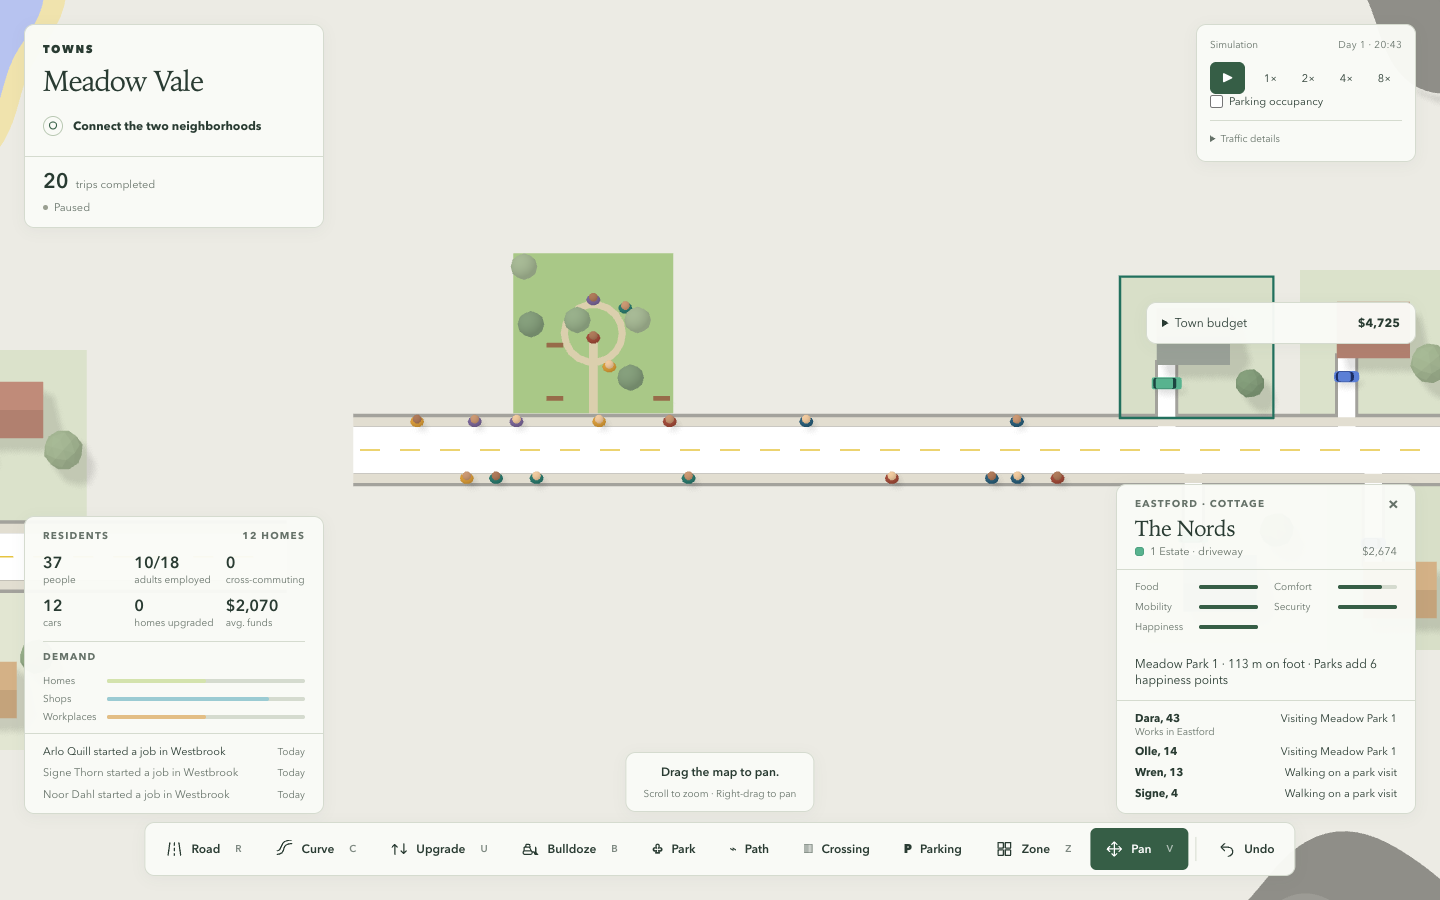
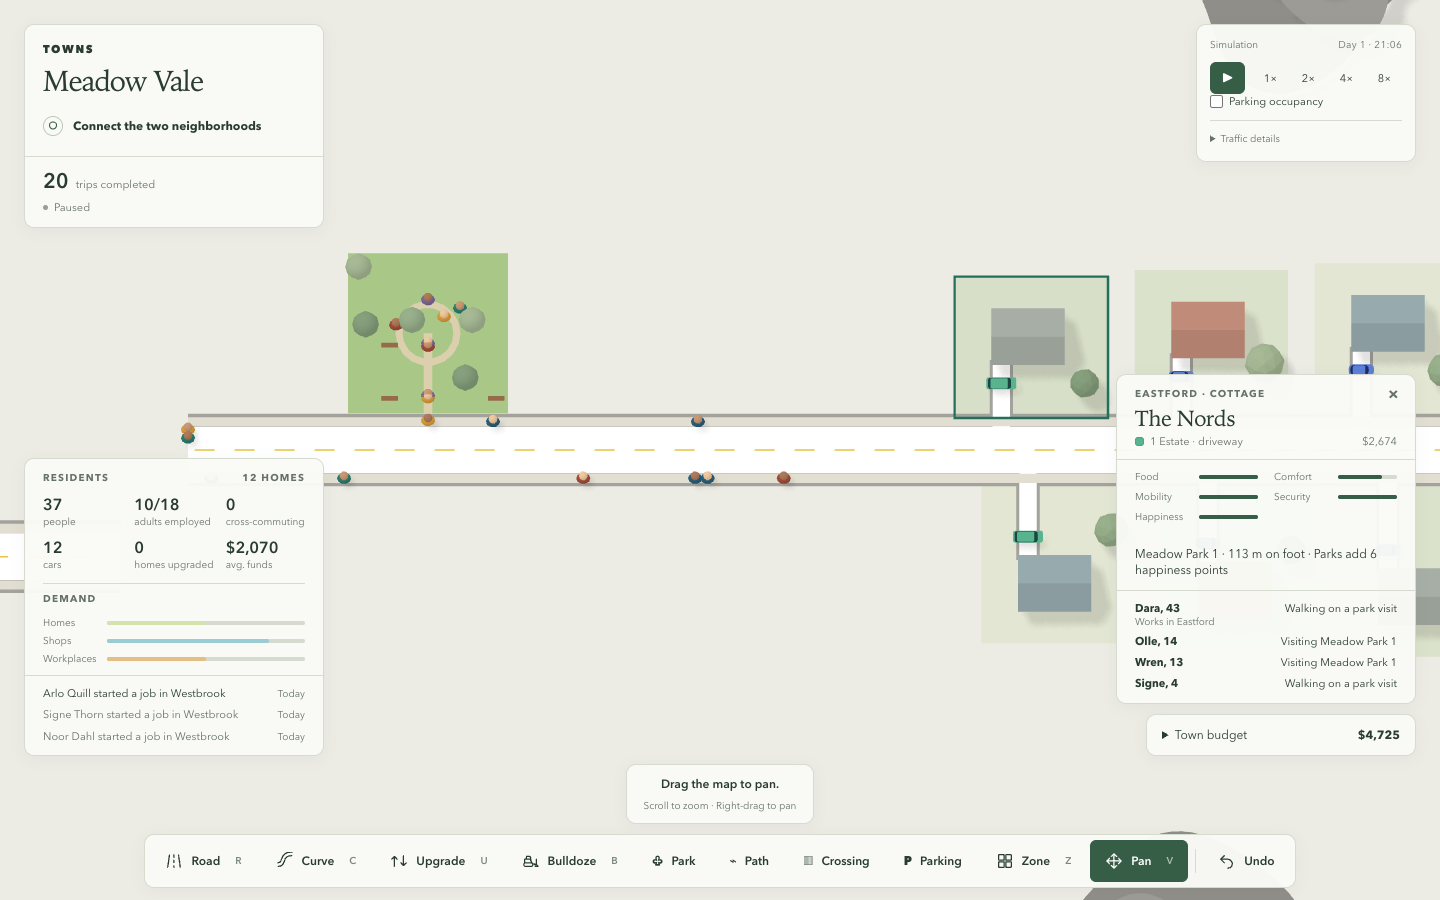
Keep the town budget and inspector clear of the selected parcel

diff --git a/src/ui/styles.css b/src/ui/styles.css
@@ -23,7 +23,7 @@ html, body { margin: 0; height: 100%; overflow: hidden; background: var(--ground
 .panel { pointer-events: auto; background: var(--panel); border: 1px solid var(--line); border-radius: 10px; box-shadow: 0 3px 14px #263b2b0c; }
 .hud-column { position: absolute; top: 24px; bottom: 24px; display: flex; flex-direction: column; justify-content: space-between; gap: 10px; }
 .hud-column.left { left: 24px; width: 300px; }
-.hud-column.right { right: 24px; width: 300px; align-items: flex-end; }
+.hud-column.right { justify-content: flex-start; right: 24px; width: 300px; align-items: flex-end; }
 .map-info { padding: 17px 18px 0; flex: none; }
 .map-heading { display: flex; justify-content: space-between; align-items: center; }
 .wordmark { font-size: 11px; font-weight: 750; letter-spacing: .15em; text-transform: uppercase; }
@@ -49,7 +49,7 @@ h2 { margin: 2px 0 5px; font-size: 12px; line-height: 1.35; font-weight: 650; }
 .town-feed li { display: flex; justify-content: space-between; align-items: baseline; gap: 10px; font-size: 11px; line-height: 1.4; }
 .town-feed time { flex: none; color: var(--muted); font-size: 10px; }
 .town-feed li:not(:first-child) span { color: var(--muted); }
-.simulation { width: 220px; padding: 13px; flex: none; }
+.simulation { margin-bottom: auto; width: 220px; padding: 13px; flex: none; }
 .household { width: 100%; padding: 12px 18px 12px; overflow: auto; min-height: 0; }
 .household .close { width: 24px; height: 24px; margin: -5px -8px -5px 0; font-size: 16px; line-height: 1; color: var(--muted); letter-spacing: 0; }
 .household-name { margin: 4px 0 2px; font-family: 'Iowan Old Style', 'Palatino Linotype', Palatino, Georgia, serif; font-size: 22px; font-weight: 500; letter-spacing: -.02em; line-height: 1.2; }
@@ -111,7 +111,7 @@ button.bulldoze.active, button.bulldoze.active:hover { background: #904731; }
   h1 { font-size: 25px; margin-bottom: 13px; }
   .objective { margin-bottom: 13px; }
   .trip-summary { margin: 0 -14px; padding: 10px 14px; }
-  .hud-column.right { top: auto; bottom: max(160px, calc(env(safe-area-inset-bottom) + 148px)); right: 12px; width: calc(100% - 24px); max-height: calc(100% - 172px); flex-direction: column-reverse; justify-content: flex-start; }
+  .hud-column.right { top: auto; bottom: max(160px, calc(env(safe-area-inset-bottom) + 148px)); right: 12px; width: calc(100% - 24px); max-height: calc(100% - 172px); flex-direction: column; justify-content: flex-end; }
   .simulation { width: 190px; padding: 10px; }
   .simulation-heading { margin-bottom: 6px; }
   .traffic-details { margin-top: 7px; padding-top: 6px; }
@@ -170,10 +170,6 @@ button.bulldoze.active, button.bulldoze.active:hover { background: #904731; }
 .road-picker { display: flex; align-items: center; justify-content: center; gap: 8px; margin-bottom: 6px; font-size: 12px; }
 .road-picker select { font: inherit; padding: 3px 6px; border: 1px solid var(--line); background: var(--panel); color: inherit; border-radius: 3px; }
 
-/* Keep the lot tool and the household/business cards accessible at map zoom. */
-@media (min-width: 1214px) and (max-width: 1600px) {
-  .hud:has(.editor) .hud-column { bottom: 86px; }
-}
 @media (min-width: 641px) and (max-width: 1000px) {
   .tool kbd { display: none; }
   .tool { padding: 0 8px; }
@@ -182,4 +178,55 @@ button.bulldoze.active, button.bulldoze.active:hover { background: #904731; }
   .tool-bar { width: min(560px, calc(100vw - 24px)); display: grid; grid-template-columns: repeat(8, minmax(0, 1fr)); gap: 1px; }
   .tool-divider { display: none; }
   .tool { flex-direction: column; gap: 2px; padding: 3px 1px; font-size: 10px; }
+}
+
+@media (min-width: 641px) {
+  .inspecting .hud-column { width: min(300px, 28vw); }
+  .inspecting .budget { max-height: 45%; overflow: auto; }
+}
+
+@media (max-width: 640px) {
+  .inspecting .hud-column.left { width: calc(48% - 18px); max-height: 28dvh; overflow: auto; }
+  .inspecting .hud-column.left > .panel { flex: none; }
+  .inspecting .map-info { padding: 8px 10px 0; }
+  .inspecting .map-info h1 { margin: 4px 0 6px; font-size: 18px; }
+  .inspecting .map-info .objective { margin-bottom: 6px; }
+  .inspecting .trip-summary { margin: 0 -10px; padding: 5px 10px; }
+  .inspecting .simulation { position: fixed; top: 12px; right: 12px; width: calc(52% - 18px); max-height: 28dvh; overflow: auto; }
+  .inspecting .hud-column.right { height: 34dvh; }
+  .inspecting .household { flex: 0 1 auto; }
+  .inspecting .budget { flex: none; max-height: 55%; overflow: auto; }
+}
+
+@media (max-width: 640px) {
+  .inspecting .map-info .traffic-status, .inspecting .town-demand { display: none; }
+  .inspecting .trip-summary strong { font-size: 15px; }
+  .inspecting .town { padding: 8px 10px; }
+}
+
+/* Let the toolbar reserve its actual height when tools and touch instructions wrap. */
+.hud:has(> .editor) {
+  display: grid;
+  grid-template: minmax(0, 1fr) auto / minmax(0, 1fr);
+  row-gap: 8px;
+  padding-bottom: max(12px, env(safe-area-inset-bottom));
+}
+.hud:has(> .editor) .hud-column.right { grid-area: 1 / 1 / 2 / 2; bottom: 0; }
+.hud > .editor { position: static; grid-row: 2; justify-self: center; transform: none; }
+@media (min-width: 641px) {
+  .hud:has(> .editor) .hud-column.left { grid-area: 1 / 1 / 2 / 2; bottom: 0; }
+  .inspecting .simulation { max-width: 100%; }
+}
+@media (min-width: 641px) and (max-width: 1000px) {
+  .tool { flex-direction: column; gap: 2px; padding: 3px 6px; }
+}
+
+@media (min-width: 641px) and (max-width: 1213px) and (max-height: 560px) {
+  .inspecting .hud-column { overflow: auto; }
+  .inspecting .map-info { padding: 8px 10px 0; }
+  .inspecting .map-info h1 { margin: 4px 0; font-size: 18px; }
+  .inspecting .objective { margin-bottom: 5px; }
+  .inspecting .trip-summary { margin: 0 -10px; padding: 4px 10px; }
+  .inspecting .simulation { max-height: 35%; overflow: auto; padding: 6px 9px; }
+  .inspecting .budget { max-height: 38%; }
 }

diff --git a/src/ui/App.tsx b/src/ui/App.tsx
@@ -1,6 +1,6 @@
 import { BUDGET } from '../sim/town/economy';
 import { ROAD_ORDER, ROAD_TYPES, type RoadType } from '../sim/network/roadTypes';
-import { useEffect, useState } from 'react';
+import { useEffect, useLayoutEffect, useRef, useState } from 'react';
 import type { Game } from '../render/game';
 import { ZONE_KINDS, type LandUse } from '../sim/zoning/paint';
 import { BudgetPanel, money, dayClock, HouseholdCard, TownPanel } from './town';
@@ -17,6 +17,7 @@ function clock(seconds: number): string {
 }
 
 export function App({ game }: { game: Game }) {
+  const hud = useRef<HTMLElement>(null);
   const [stats, setStats] = useState(game.stats());
   const [town, setTown] = useState(game.town());
   const [selected, setSelected] = useState(game.selectedHouse());
@@ -132,10 +133,43 @@ export function App({ game }: { game: Game }) {
     : 'Drag between marked ends to connect them, or click points one by one.');
   const household = selected === null ? undefined : town?.households.find((h) => h.home === selected);
   const business = town?.businesses.find(b => b.home === selected);
+  const inspecting = !!(household || business);
+  useLayoutEffect(() => {
+    if (!inspecting || !hud.current) return;
+    const root = hud.current;
+    const panels = Array.from(root.querySelectorAll<HTMLElement>('.panel'));
+    const left = root.querySelector<HTMLElement>('.hud-column.left')!;
+    const right = root.querySelector<HTMLElement>('.hud-column.right')!;
+    const controls = right.querySelector<HTMLElement>('.simulation')!;
+    const card = right.querySelector<HTMLElement>('.household')!;
+    const toolbar = root.querySelector<HTMLElement>('.editor')!;
+    const reveal = () => {
+      const parcel = game.selectedParcelOnScreen();
+      if (!parcel) return;
+      const margin = 8;
+      const visible = parcel.left >= margin && parcel.top >= margin &&
+        parcel.right <= root.clientWidth - margin && parcel.bottom <= root.clientHeight - margin;
+      if (visible && panels.every(panel => {
+        const r = panel.getBoundingClientRect();
+        return parcel.right + margin <= r.left || parcel.left >= r.right + margin ||
+          parcel.bottom + margin <= r.top || parcel.top >= r.bottom + margin;
+      })) return;
+      const narrow = window.matchMedia('(max-width: 640px)').matches;
+      const x = narrow ? margin : left.getBoundingClientRect().right + margin;
+      const y = narrow ? Math.max(left.getBoundingClientRect().bottom, controls.getBoundingClientRect().bottom) + margin : margin;
+      const endX = narrow ? root.clientWidth - margin : right.getBoundingClientRect().left - margin;
+      const endY = (narrow ? card : toolbar).getBoundingClientRect().top - margin;
+      game.revealSelectedParcel(new DOMRect(x, y, endX - x, endY - y));
+    };
+    const observer = new ResizeObserver(reveal);
+    for (const el of [root, ...panels]) observer.observe(el);
+    reveal();
+    return () => observer.disconnect();
+  }, [game, selected, inspecting]);
   const tripStatus = editor?.pending ? 'Updating roads' : speed === 0 ? 'Paused' : editor && !editor.connected ? 'Waiting for a connection' : 'Traffic running';
 
   return (
-    <aside className="hud" aria-label="Map controls">
+    <aside ref={hud} className={inspecting ? 'hud inspecting' : 'hud'} aria-label="Map controls">
       <div className="hud-column left">
         <section className="map-info panel" aria-label="Map objective">
           <header className="map-heading">
@@ -179,7 +213,6 @@ export function App({ game }: { game: Game }) {
             <div className="performance">{fps.toFixed(0)} fps</div>
           </details>
         </section>
-        {town && <BudgetPanel town={town} />}
         {business && <section className="household panel" aria-label="Business">
           <div className="panel-heading">{business.zone === 'shops' ? 'Shop' : 'Workplace'}
             <button className="close" onClick={() => selectHouse(null)} aria-label="Close business card">×</button>
@@ -193,6 +226,7 @@ export function App({ game }: { game: Game }) {
             <dt>Customers today</dt><dd>{business.customers}</dd></dl>
         </section>}
         {household && <HouseholdCard household={household} onClose={() => selectHouse(null)} />}
+        {town && <BudgetPanel town={town} />}
       </div>
 
       {editor && <section className="editor" aria-label="Road editor">

diff --git a/tests/e2e/inspection.spec.ts b/tests/e2e/inspection.spec.ts
@@ -1,0 +1,60 @@
+import { expect, test } from '@playwright/test';
+import { meadowScenario } from '../../src/sim/scenarios/meadow';
+
+for (const [device, viewport] of [
+  ['desktop', { width: 1440, height: 900 }],
+  ['phone', { width: 390, height: 844 }],
+  ['landscape', { width: 844, height: 390 }],
+  ['tablet', { width: 768, height: 1024 }],
+] as const) {
+  test.describe(device, () => {
+    test.use({ viewport, hasTouch: device !== 'desktop' });
+    test('budget stays anchored and the selected parcel stays clear of the HUD', async ({ page }) => {
+      const house = meadowScenario().decor.houses[4]!;
+      // Pick the parcel where the inspector will open, just above the collapsed budget.
+      const mpp = 0.25;
+      const x = house.x - (viewport.width * 0.4) * mpp;
+      const y = house.y + (viewport.height * 0.24) * mpp;
+      await page.goto(`/?speed=0&x=${x}&y=${y}&mpp=${mpp}`);
+      const budget = page.locator('.budget');
+      await expect(budget).toBeVisible();
+      const initial = await budget.boundingBox();
+      await page.evaluate(() => window.__towns!.selectHouse(4));
+      await expect(page.getByRole('region', { name: 'Household' })).toBeVisible();
+      const closed = await budget.boundingBox();
+      expect(closed!.y + closed!.height).toBeCloseTo(initial!.y + initial!.height, 0);
+      const obstructions = () => page.evaluate(() => {
+        const selection = window.__towns!.selectedParcelOnScreen()!;
+        const boxes = [{ name: 'Selected parcel', rect: selection }];
+        for (const panel of document.querySelectorAll<HTMLElement>('.panel')) {
+          const r = panel.getBoundingClientRect();
+          // A scrollable rail clips its children to its own visible bounds.
+          const rail = panel.closest<HTMLElement>('.hud-column.left');
+          const clip = rail?.getBoundingClientRect();
+          const bottom = clip ? Math.min(r.bottom, clip.bottom) : r.bottom;
+          if (bottom > r.top) boxes.push({ name: panel.className, rect: new DOMRect(r.left, r.top, r.width, bottom - r.top) });
+        }
+        const collisions: string[] = [];
+        for (const {name, rect} of boxes) {
+          if (rect.left < 0 || rect.top < 0 || rect.right > innerWidth || rect.bottom > innerHeight) collisions.push(name + ' outside viewport');
+        }
+        for (let a = 0; a < boxes.length; a++) for (let b = a + 1; b < boxes.length; b++) {
+          const left = boxes[a]!, right = boxes[b]!;
+          if (left.rect.left < right.rect.right && left.rect.right > right.rect.left &&
+              left.rect.top < right.rect.bottom && left.rect.bottom > right.rect.top) {
+            collisions.push(left.name + ' overlaps ' + right.name);
+          }
+        }
+        return collisions;
+      });
+      await expect.poll(obstructions).toEqual([]);
+      await budget.locator('summary').click();
+      await expect(budget).toHaveAttribute('open', '');
+      await expect.poll(obstructions).toEqual([]);
+      if (device === 'phone' || device === 'desktop') await page.screenshot({ path: `artifacts/screens/inspection-budget-${device}.png` });
+      await budget.locator('summary').click();
+      await page.getByRole('button', { name: 'Close household' }).click();
+      await expect(page.getByRole('region', { name: 'Household' })).toBeHidden();
+    });
+  });
+}

diff --git a/src/render/houses.ts b/src/render/houses.ts
@@ -2,7 +2,7 @@ import * as THREE from 'three';
 import { mergeGeometries } from 'three/addons/utils/BufferGeometryUtils.js';
 import { polyline } from '../sim/math/polyline';
 import type { Vec2 } from '../sim/math/vec';
-import type { House } from '../sim/scenarios/types';
+import type { Bounds, House } from '../sim/scenarios/types';
 import { BLUEPRINTS } from '../buildings/catalogue';
 import type { BusinessView, HouseholdView } from '../sim/town/town';
 import { buildBuildingLayer, type BuildingInstance } from './buildings/mesh';
@@ -89,6 +89,7 @@ export class HouseLayer {
   private grownLayer = new THREE.Group();
   private selected: number | null = null;
   private selection: THREE.Mesh | null = null;
+  selectedBounds: Bounds | null = null;
 
   constructor(private readonly houses: readonly House[]) {
     this.group.name = 'houses';
@@ -225,6 +226,7 @@ export class HouseLayer {
 
   select(index: number | null): void {
     this.selected = index;
+    this.selectedBounds = null;
     if (this.selection) {
       this.selection.geometry.dispose();
       this.selection.removeFromParent();
@@ -242,6 +244,10 @@ export class HouseLayer {
         const sin = Math.sin(house!.angle);
         return { x: house!.x + c.x * cos - c.y * sin, y: house!.y + c.x * sin + c.y * cos };
       });
+    this.selectedBounds = {
+      minX: Math.min(...corners.map(p => p.x)), maxX: Math.max(...corners.map(p => p.x)),
+      minY: Math.min(...corners.map(p => p.y)), maxY: Math.max(...corners.map(p => p.y)),
+    };
     const outline = new FlatMesh(0.3);
     outline.ribbon(polyline(corners, true), 0.35);
     this.selection = new THREE.Mesh(outline.build(), this.outlineMaterial);

diff --git a/src/render/camera.ts b/src/render/camera.ts
@@ -61,6 +61,26 @@ export class MapCamera {
     };
   }
 
+  screenBounds(b: Bounds): DOMRect {
+    return new DOMRect(
+      this.width / 2 + (b.minX - this.centerX) / this.mpp,
+      this.height / 2 - (b.maxY - this.centerY) / this.mpp,
+      (b.maxX - b.minX) / this.mpp,
+      (b.maxY - b.minY) / this.mpp,
+    );
+  }
+
+  /** Pan just enough to show the outlined parcel in the clear part of the map. */
+  reveal(b: Bounds, area: DOMRect): void {
+    if (area.width <= 0 || area.height <= 0) return;
+    this.mpp = Math.max(this.mpp, (b.maxX - b.minX) / area.width, (b.maxY - b.minY) / area.height);
+    const rect = this.screenBounds(b);
+    const x = Math.max(area.left, Math.min(rect.left, area.right - rect.width));
+    const y = Math.max(area.top, Math.min(rect.top, area.bottom - rect.height));
+    this.centerX += (rect.left - x) * this.mpp;
+    this.centerY -= (rect.top - y) * this.mpp;
+  }
+
   dispose(): void {
     this.abort.abort();
   }

diff --git a/src/render/game.ts b/src/render/game.ts
@@ -47,6 +47,8 @@ export interface Game {
   town(): TownView | null;
   /** Index into `scenario.decor.houses` (= `HouseholdView.home`) of the inspected house. */
   selectedHouse(): number | null;
+  selectedParcelOnScreen(): DOMRect | null;
+  revealSelectedParcel(area: DOMRect): void;
   selectHouse(house: number | null): void;
   fps(): number;
   speed(): number;
@@ -251,6 +253,8 @@ export function createGame(canvas: HTMLCanvasElement, options: GameOptions): Gam
     town: () => latestTown,
     selectedHouse: () => selectedHouse,
     selectHouse,
+    selectedParcelOnScreen: () => houses?.selectedBounds ? mapCamera.screenBounds(houses.selectedBounds) : null,
+    revealSelectedParcel: area => { if (houses?.selectedBounds) mapCamera.reveal(houses.selectedBounds, area); },
     fps: () => fps,
     speed: () => speed,
     setSpeed(next) {
